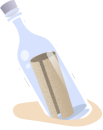
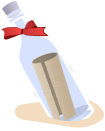
💄 design: 메인 페이지 디자인 변동사항 반영 (#185)
* 💄 design: LetterCountBottomSheet 컴포넌트 작성

* ✨ feat: 편지지 갯수 바텀시트 적용

* 🔨 refactor: BottomSheet.Description의 태그를 div로 변경

* 💄 design: 받은 답장 물병에 리본 이미지 적용

* 💄 design: dotsSection을 항상 보여주도록 수정

* ✨ feat: 답장 물병에 툴팁 추가

diff --git a/src/pages/MainPage/components/CarouselArea/ReplyBottle.tsx b/src/pages/MainPage/components/CarouselArea/ReplyBottle.tsx
@@ -2,6 +2,8 @@ import { useNavigate } from 'react-router-dom';
 import { type Reply } from '@/types/letter';
 import { ROUTER_PATHS } from '@/router';
 import useReadLetterStore from '@/stores/useReadLetterStore';
+import Tooltip from '@/components/Tooltip';
+import textStyles from '@/styles/textStyles';
 import Sparkle from '../Sparkle';
 import { REPLY_BOTTLES } from './bottleData';
 import styles from './styles';
@@ -26,7 +28,7 @@ const ReplyBottle = ({ constantId, reply }: ReplyBottleProps) => {
   };
 
   return (
-    <div
+    <article
       key={letterId}
       css={[
         REPLY_BOTTLES[constantId].container.position,
@@ -34,14 +36,23 @@ const ReplyBottle = ({ constantId, reply }: ReplyBottleProps) => {
       ]}
       onClick={handleNavigate}
     >
-      <img src={REPLY_BOTTLES[constantId].bottle.src} alt="물병" />
-      {REPLY_BOTTLES[constantId].sparkles?.map(
-        (sparkle, i) =>
-          !readReplies.includes(letterId) && (
-            <Sparkle key={i} src={sparkle.src} css={sparkle.position} />
-          ),
-      )}
-    </div>
+      <Tooltip
+        side="top"
+        triggerContent={
+          <div>
+            <img src={REPLY_BOTTLES[constantId].bottle.src} alt="물병" />
+            {REPLY_BOTTLES[constantId].sparkles?.map(
+              (sparkle, i) =>
+                !readReplies.includes(letterId) && (
+                  <Sparkle key={i} src={sparkle.src} css={sparkle.position} />
+                ),
+            )}
+          </div>
+        }
+      >
+        <p css={textStyles.c1r}>답장은 모래 위로 흘러와요</p>
+      </Tooltip>
+    </article>
   );
 };
 

diff --git a/src/pages/MainPage/components/LetterCountIconButton/index.tsx b/src/pages/MainPage/components/LetterCountIconButton/index.tsx
@@ -1,0 +1,44 @@
+import { useSuspenseQuery } from '@tanstack/react-query';
+import { PencilLine } from '@/assets/icons';
+import IconButton from '@/components/IconButton';
+import memberOptions from '@/api/member/queryOptions';
+import Tooltip from '@/components/Tooltip';
+import useBoolean from '@/hooks/useBoolean';
+import styles from './style';
+import LetterCountBottomSheet from './LetterCountBottomSheet';
+
+const LetterCountIconButton = () => {
+  const { data: member } = useSuspenseQuery(memberOptions.detail());
+
+  const bottomSheet = useBoolean(false);
+
+  return (
+    <>
+      <LetterCountBottomSheet
+        letterCount={member.letterCount}
+        {...bottomSheet}
+      />
+      <Tooltip
+        delay={3000}
+        mountKey="letterCountIconButton"
+        triggerContent={
+          <IconButton
+            css={styles.button}
+            variant="header"
+            rounded="r8"
+            onClick={bottomSheet.on}
+          >
+            <PencilLine color="white" />
+            <p css={styles.text}>{member.letterCount}장</p>
+          </IconButton>
+        }
+        align="start"
+      >
+        <p>편지지는 </p>
+        <p>하루마다 충전 돼요</p>
+      </Tooltip>
+    </>
+  );
+};
+
+export default LetterCountIconButton;

diff --git a/src/pages/MainPage/components/LetterCountIconButton/LetterCountBottomSheet.tsx b/src/pages/MainPage/components/LetterCountIconButton/LetterCountBottomSheet.tsx
@@ -1,0 +1,37 @@
+import { css } from '@emotion/react';
+import BottomSheet from '@/components/BottomSheet';
+import COLORS from '@/constants/colors';
+import useBoolean from '@/hooks/useBoolean';
+import Button from '@/components/Button';
+
+interface LetterCountBottomSheetProps extends ReturnType<typeof useBoolean> {
+  letterCount: number;
+}
+
+const LetterCountBottomSheet = ({
+  letterCount,
+  value,
+  on,
+  off,
+}: LetterCountBottomSheetProps) => {
+  return (
+    <BottomSheet open={value} onOpen={on} onClose={off}>
+      <BottomSheet.Title>
+        <span>보유한 편지지 갯수 </span>
+        <span css={css({ color: COLORS.primary })}>{letterCount}/5</span>
+        <span>개</span>
+      </BottomSheet.Title>
+      <BottomSheet.Description css={css({ marginTop: '0.75rem' })}>
+        <p>편지지는 매일 밤 12시에 충전 돼요</p>
+      </BottomSheet.Description>
+      <BottomSheet.Divider />
+      <BottomSheet.ButtonSection>
+        <Button variant="primary" size="sm" onClick={off}>
+          닫기
+        </Button>
+      </BottomSheet.ButtonSection>
+    </BottomSheet>
+  );
+};
+
+export default LetterCountBottomSheet;

diff --git a/src/pages/MainPage/components/CarouselArea/index.tsx b/src/pages/MainPage/components/CarouselArea/index.tsx
@@ -45,17 +45,18 @@ const CarouselArea = () => {
         </div>
       </section>
 
+      <section css={styles.dotsSection}>
+        {slides.map((slide, idx) => (
+          <p
+            key={slide.id}
+            css={styles.dot(selectedIndex === idx)}
+            onClick={() => emblaApi?.scrollTo(idx)}
+          />
+        ))}
+      </section>
+
       {slides.length > 1 && (
         <>
-          <section css={styles.dotsSection}>
-            {slides.map((slide, idx) => (
-              <p
-                key={slide.id}
-                css={styles.dot(selectedIndex === idx)}
-                onClick={() => emblaApi?.scrollTo(idx)}
-              />
-            ))}
-          </section>
           <IconButton
             variant="carousel"
             css={[styles.carouselButton, css({ left: '1rem' })]}

diff --git a/src/pages/MainPage/index.tsx b/src/pages/MainPage/index.tsx
@@ -9,7 +9,7 @@ import { ROUTER_PATHS } from '@/router';
 import Tooltip from '@/components/Tooltip';
 import styles from './styles';
 import CarouselArea from './components/CarouselArea';
-import WritingButton from './components/WritingButton';
+import LetterCountIconButton from './components/LetterCountIconButton';
 import WritingBottomButton from './components/WritingBottomButton';
 
 const MainPage = () => {
@@ -21,7 +21,7 @@ const MainPage = () => {
         variant="primary"
         leftContent={
           <Suspense fallback={<></>}>
-            <WritingButton />
+            <LetterCountIconButton />
           </Suspense>
         }
         rightStyle={css({ gap: '0.5rem' })}

diff --git a/src/pages/MainPage/components/LetterCountIconButton/index.stories.tsx b/src/pages/MainPage/components/LetterCountIconButton/index.stories.tsx
@@ -1,14 +1,14 @@
 import { Suspense } from 'react';
 import type { Meta, StoryObj } from '@storybook/react';
 import { css } from '@emotion/react';
-import WritingButton from './';
+import LetterCountIconButton from '.';
 
 const meta = {
-  title: 'Pages/MainPage/WritingButton',
-  component: WritingButton,
+  title: 'Pages/MainPage/LetterCountIconButton',
+  component: LetterCountIconButton,
   tags: ['autodocs'],
   argTypes: {},
-} satisfies Meta<typeof WritingButton>;
+} satisfies Meta<typeof LetterCountIconButton>;
 
 export default meta;
 

diff --git a/src/components/BottomSheet/components/Description.tsx b/src/components/BottomSheet/components/Description.tsx
@@ -7,9 +7,9 @@ interface DescriptionProps {
 
 const Description = ({ children, ...props }: DescriptionProps) => {
   return (
-    <p css={styles.description} {...props}>
+    <div css={styles.description} {...props}>
       {children}
-    </p>
+    </div>
   );
 };
 
